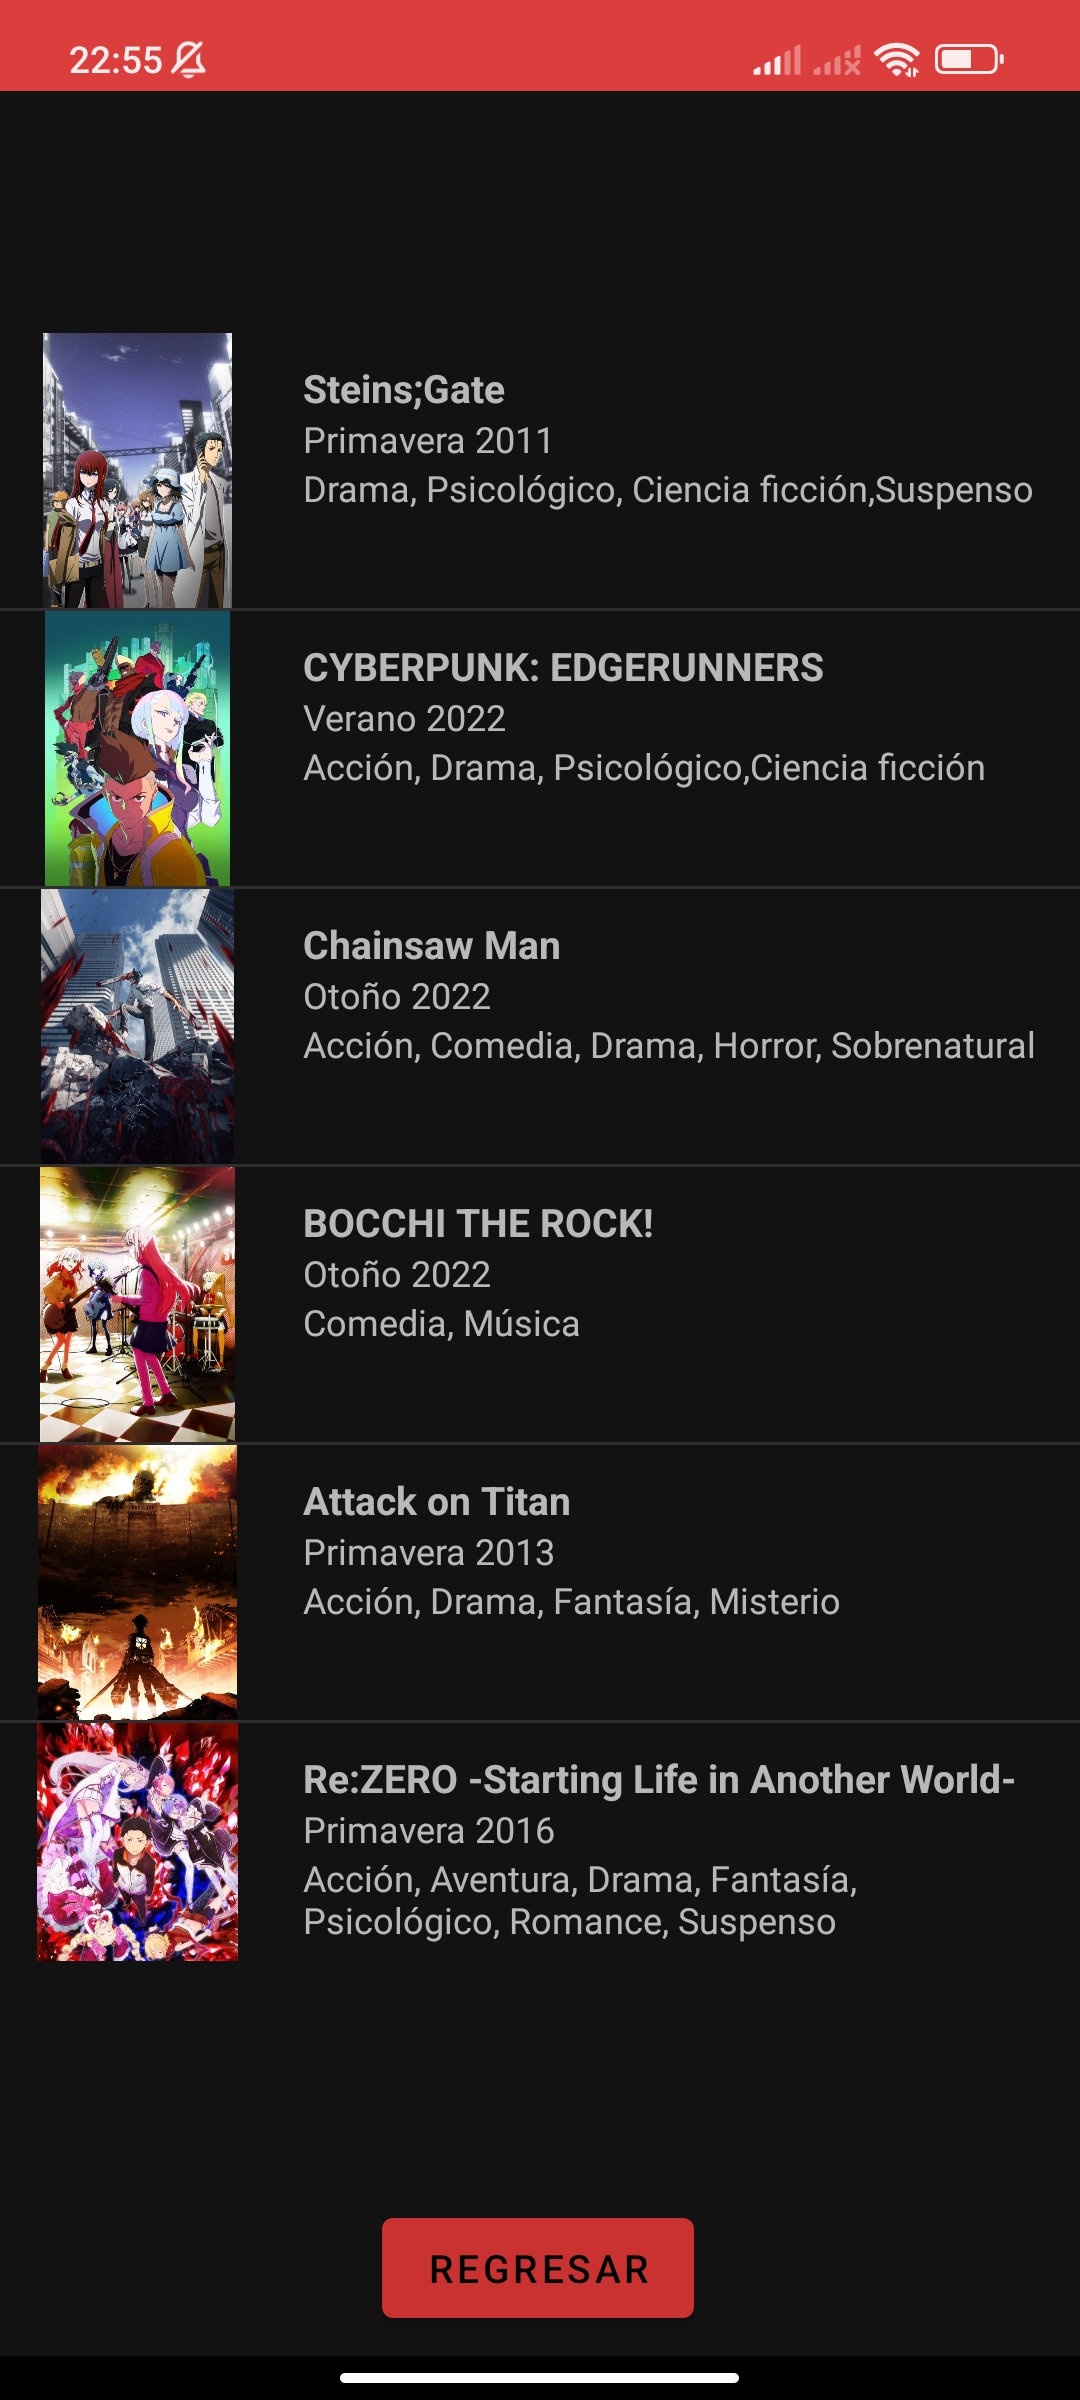
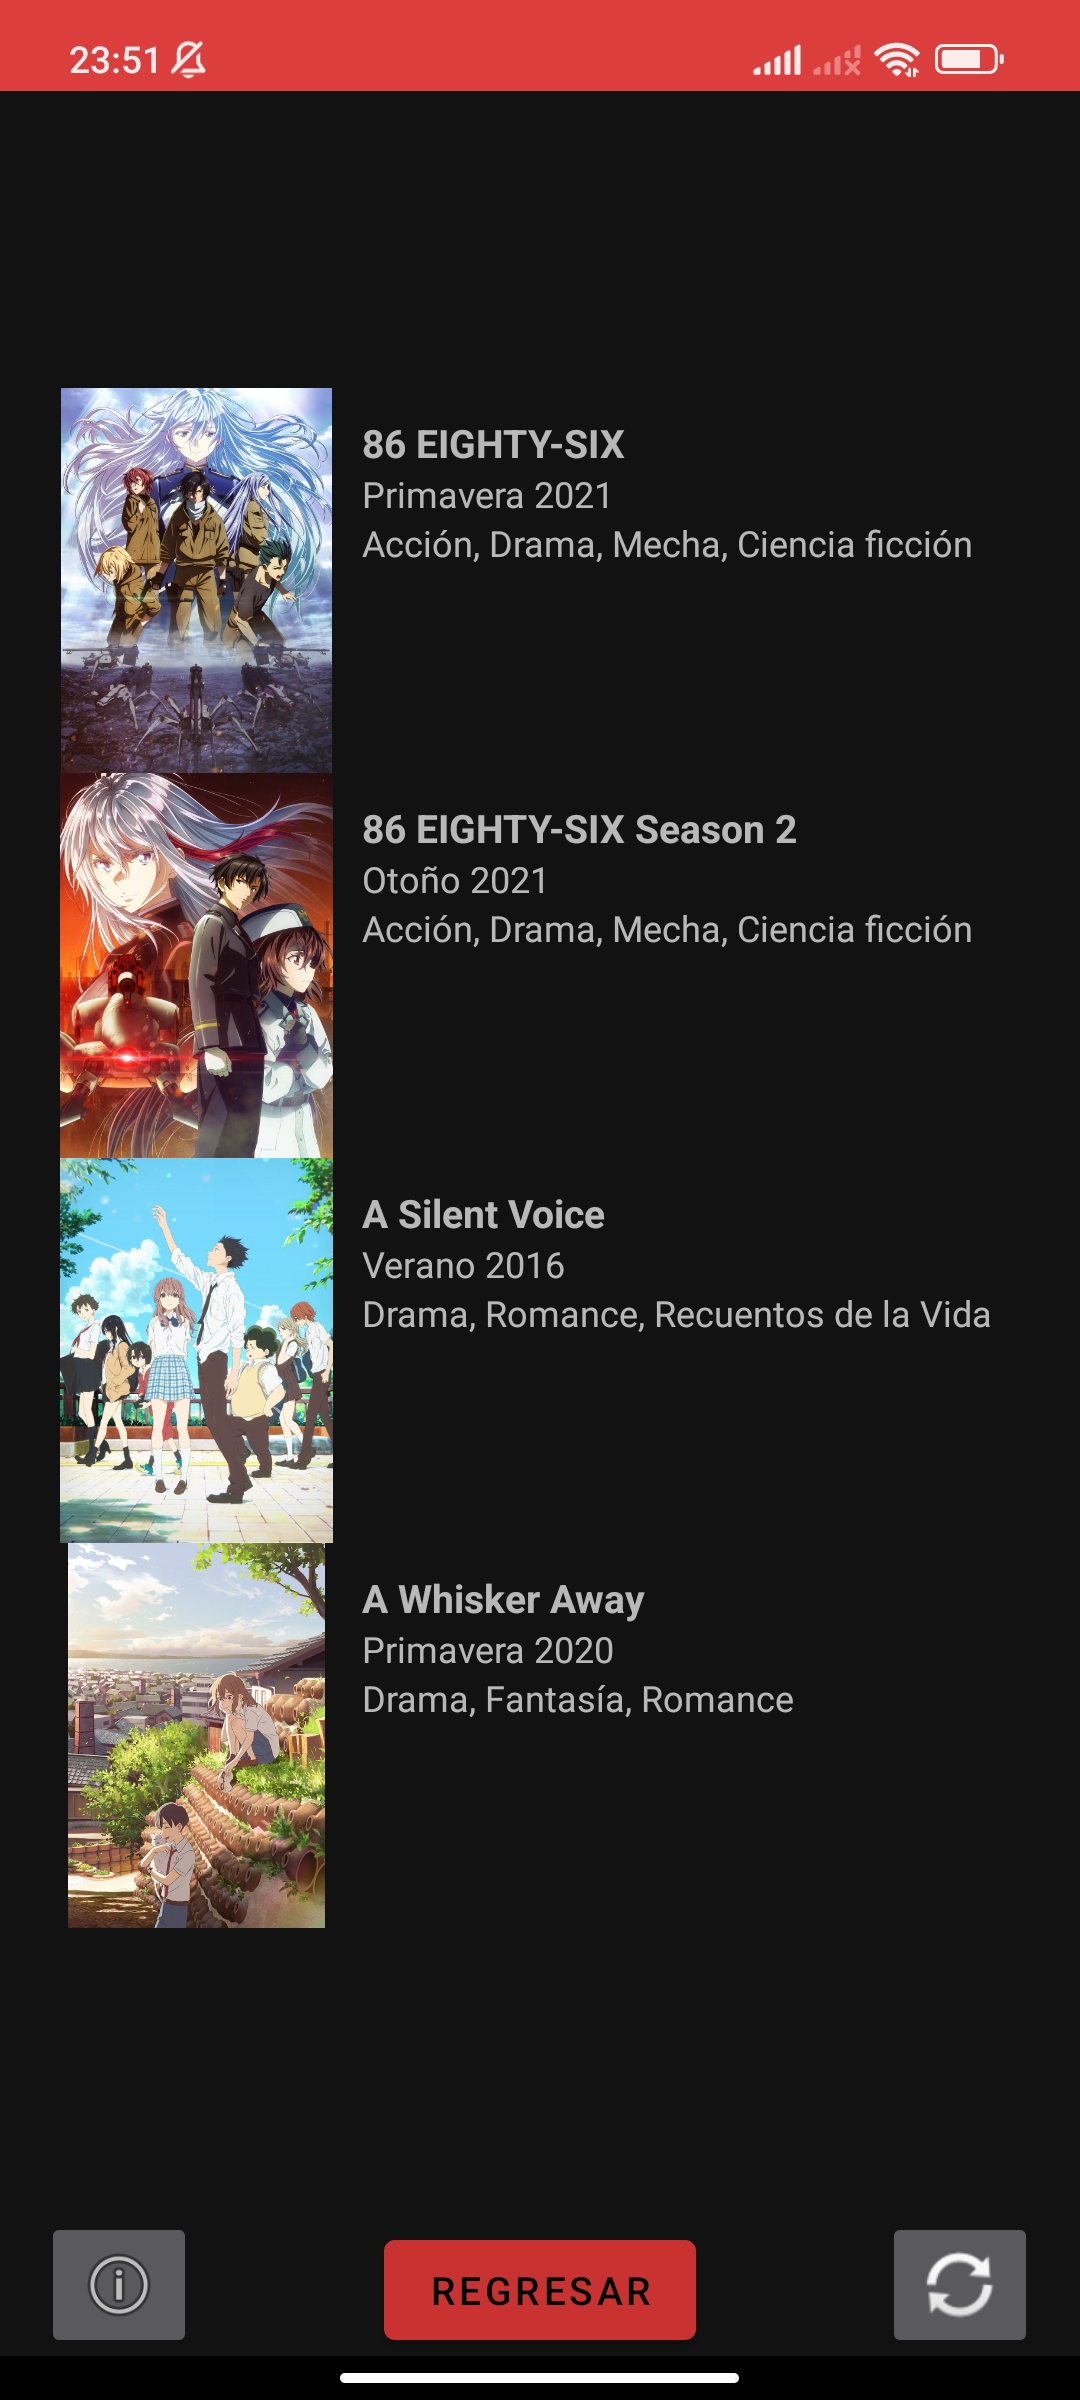
Se implementó RecyclerView.

diff --git a/app/src/main/java/com/fullstackteam/androidproject/AnimeListActivity.kt b/app/src/main/java/com/fullstackteam/androidproject/AnimeListActivity.kt
@@ -4,30 +4,48 @@ import android.content.Intent
 import androidx.appcompat.app.AppCompatActivity
 import android.os.Bundle
 import android.view.View
-import com.fullstackteam.androidproject.databinding.ActivityAnimeListBinding
-import com.fullstackteam.androidproject.model.AnimeDBClient
-import kotlin.concurrent.thread
 import android.widget.Toast
+import androidx.recyclerview.widget.LinearLayoutManager
+import com.fullstackteam.androidproject.databinding.ActivityAnimeListBinding
 import com.fullstackteam.androidproject.model.AnimeAdapter
+import com.fullstackteam.androidproject.model.AnimeDBClient
+import com.fullstackteam.androidproject.model.AnimeListItem
+import kotlin.concurrent.thread
 
 class AnimeListActivity : AppCompatActivity() {
     private lateinit var binding: ActivityAnimeListBinding
+    private var size: Int = 0
     override fun onCreate(savedInstanceState: Bundle?) {
         super.onCreate(savedInstanceState)
         binding = ActivityAnimeListBinding.inflate(layoutInflater).apply {
-            setContentView(root)
+            val view = root
+            setContentView(view)
             buttonGoBack.text = "Regresar"
-            buttonUpdate.text = "Actualizar"
-            loadAnimeList()
+            getAnimeList()
         }
     }
-    fun goBack(view: View){
+
+    fun goBack(view: View) {
         finish()
     }
-    fun update(view: View){
-        loadAnimeList()
+
+    fun update(view: View) {
+        getAnimeList()
     }
-    private fun loadAnimeList(){
+
+    fun getSize(view: View) {
+        if (size != 0){
+            runOnUiThread {
+                Toast.makeText(this, "$size Animes en la Base de Datos", Toast.LENGTH_SHORT).show()
+            }
+        } else{
+            runOnUiThread {
+                Toast.makeText(this, "Vuelva a actualizar la Lista de Animes", Toast.LENGTH_SHORT).show()
+            }
+        }
+    }
+
+    private fun getAnimeList() {
         thread {
             try {
                 val animeList = AnimeDBClient.service.animeList()
@@ -36,30 +54,36 @@ class AnimeListActivity : AppCompatActivity() {
 
                 if (response.isSuccessful && animeListBody != null) {
                     runOnUiThread {
-                        val animeAdapter = AnimeAdapter(this, animeListBody)
-                        binding.listViewAnimeList.adapter = animeAdapter
-                    }
-                    binding.listViewAnimeList.setOnItemClickListener { parent, view, position, id ->
-                        val intent = Intent(this, AnimeDetailActivity::class.java).apply{
-                            putExtra("name", animeListBody[position].name)
-                            putExtra("description", animeListBody[position].description)
-                            putExtra("episodes", animeListBody[position].episodes)
-                            putExtra("season", animeListBody[position].season)
-                            putExtra("genres", animeListBody[position].genres)
-                            putExtra("image_url", animeListBody[position].image_url)
-                        }
-                        startActivity(intent)
+                        size = animeListBody.size
+                        binding.recyclerViewAnimeList.setHasFixedSize(true)
+                        val layoutManager = LinearLayoutManager(baseContext)
+                        binding.recyclerViewAnimeList.layoutManager = layoutManager
+                        binding.recyclerViewAnimeList.adapter = AnimeAdapter(animeListBody) { onItemClick(it) }
                     }
                 } else {
                     runOnUiThread {
-                        Toast.makeText(this, "La llamada a la API falló con el código de respuesta ${response.code()}", Toast.LENGTH_SHORT).show()
+                        Toast.makeText(
+                            this,
+                            "La llamada a la API falló con el código de respuesta ${response.code()}", Toast.LENGTH_SHORT).show()
                     }
                 }
             } catch (exception: Exception) {
                 runOnUiThread {
-                    Toast.makeText(this, "La llamada a la API falló con una excepción $exception", Toast.LENGTH_SHORT).show()
+                    Toast.makeText(this,"La llamada a la API falló con una excepción $exception", Toast.LENGTH_SHORT).show()
                 }
             }
         }
+    }
+
+    private fun onItemClick(anime: AnimeListItem) {
+        val intent = Intent(this, AnimeDetailActivity::class.java).apply {
+            putExtra("name", anime.name)
+            putExtra("description", anime.description)
+            putExtra("episodes", anime.episodes)
+            putExtra("season", anime.season)
+            putExtra("genres", anime.genres)
+            putExtra("image_url", anime.image_url)
+        }
+        startActivity(intent)
     }
 }

diff --git a/app/src/main/java/com/fullstackteam/androidproject/model/AnimeAdapter.kt b/app/src/main/java/com/fullstackteam/androidproject/model/AnimeAdapter.kt
@@ -1,37 +1,27 @@
 package com.fullstackteam.androidproject.model
 
-import android.content.Context
 import android.view.LayoutInflater
-import android.view.View
 import android.view.ViewGroup
-import android.widget.BaseAdapter
-import com.fullstackteam.androidproject.databinding.AnimeItemBinding
-import com.squareup.picasso.Picasso
+import android.widget.LinearLayout
+import androidx.recyclerview.widget.RecyclerView
+import com.fullstackteam.androidproject.R
 
-class AnimeAdapter(private val context: Context, private val arrayList: java.util.ArrayList<AnimeListItem>): BaseAdapter(){
-    override fun getCount(): Int {
-        return arrayList.size
+class AnimeAdapter(private val animeDataSet: java.util.ArrayList<AnimeListItem>, private val onClickListener: (AnimeListItem) -> Unit) : RecyclerView.Adapter<AnimeViewHolder>() {
+
+    interface OnItemSelectedListener {
+        fun onItemSelected(position: Int)
     }
 
-    override fun getItem(position: Int): Any {
-        return position
+    override fun onCreateViewHolder(parent: ViewGroup, viewType: Int): AnimeViewHolder {
+        val v = LayoutInflater.from(parent.context)
+            .inflate(R.layout.anime_item, parent, false) as LinearLayout
+        return AnimeViewHolder(v)
     }
 
-    override fun getItemId(position: Int): Long {
-        return position.toLong()
+    override fun onBindViewHolder(holder: AnimeViewHolder, position: Int) {
+        val item = animeDataSet[position]
+        holder.render(item, onClickListener)
     }
 
-    override fun getView(position: Int, convertView: View?, parent: ViewGroup): View? {
-        val binding = AnimeItemBinding.inflate(LayoutInflater.from(parent.context), parent, false)
-        var convertView = convertView
-        convertView = binding.root
-        binding.textName.text = arrayList[position].name
-        binding.textSeason.text = arrayList[position].season
-        binding.textGenres.text = arrayList[position].genres
-        if(arrayList[position].image_url != null){
-            Picasso.get().load(arrayList[position].image_url).into(binding.imageAnime)
-        }
-        return convertView
-    }
-
+    override fun getItemCount() = animeDataSet.size
 }

diff --git a/app/src/main/java/com/fullstackteam/androidproject/model/AnimeViewHolder.kt b/app/src/main/java/com/fullstackteam/androidproject/model/AnimeViewHolder.kt
@@ -1,0 +1,34 @@
+package com.fullstackteam.androidproject.model
+
+import android.view.View
+import android.widget.ImageView
+import android.widget.TextView
+import androidx.recyclerview.widget.RecyclerView
+import com.fullstackteam.androidproject.databinding.AnimeItemBinding
+import com.squareup.picasso.Picasso
+
+class AnimeViewHolder(view: View) : RecyclerView.ViewHolder(view) {
+    val textAnimeName: TextView
+    val textAnimeSeason: TextView
+    val textAnimeGenres: TextView
+    val imageAnime: ImageView
+    val binding = AnimeItemBinding.bind(view)
+
+    init {
+        textAnimeName = binding.textName
+        textAnimeSeason = binding.textSeason
+        textAnimeGenres = binding.textGenres
+        imageAnime = binding.imageAnime
+    }
+
+    fun render(anime: AnimeListItem, onClickListener: (AnimeListItem) -> Unit) {
+        textAnimeName.text = anime.name
+        textAnimeSeason.text = anime.season
+        textAnimeGenres.text = anime.genres
+        Picasso.get().load(anime.image_url).into(imageAnime)
+        itemView.setOnClickListener {
+            onClickListener(anime)
+        }
+
+    }
+}

diff --git a/app/src/main/java/com/fullstackteam/androidproject/MainActivity.kt b/app/src/main/java/com/fullstackteam/androidproject/MainActivity.kt
@@ -17,7 +17,7 @@ class MainActivity : AppCompatActivity() {
             buttonAnimeList.text = "Lista de Animes"
         }
     }
-    fun goAnimeList(view: View){
+    fun goAnimeList(view: View) {
         val intent = Intent(this, AnimeListActivity::class.java)
         startActivity(intent)
     }
